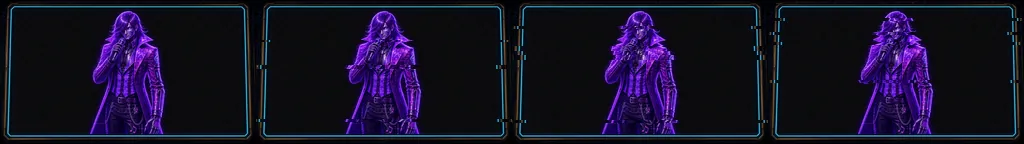
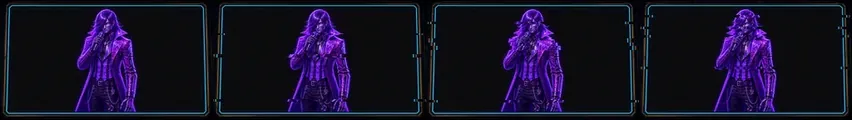
Dôme Fréquence : fiches des deux figurants (10 PNJ qui parlent), écrans de scène recalés à 2,4 m

diff --git a/docs/villes/steel/quartiers/dome_frequence/DOME_FREQUENCE.md b/docs/villes/steel/quartiers/dome_frequence/DOME_FREQUENCE.md
@@ -105,6 +105,12 @@ Clé de sprite `gen_df_<id>`. Aucun d'eux n'est Vibes ni Tron, aucun ne cite d'i
 8. **Le Gardien des balcons** (`gen_df_gardien`, 1,60 m, âgé). Ancien ouvreur de la Rotonde. Près des colonnes (3 ; 19).
    - « Avant, ça s'appelait la Rotonde. On y jouait de l'orgue. L'orgue est toujours sous la scène, personne n'a pensé à l'enlever. »
    - « Le dôme ne laisse pas passer le ciel. Il le montre. Ce n'est pas pareil. »
+9. **Théo, spectateur en costume** (`gen_df_foule_a`, 1,70 m). Costume sombre, cravate violette. C'est un des figurants déjà posés dans les gradins, rang ouest (8 ; 9,6). Il est revenu pour la quatrième fois.
+   - « J'ai pris une place au premier rang. Je regarde quand même l'écran, on voit mieux leurs visages. »
+   - « Tous les soirs, le même concert, à la seconde près. Moi, c'est ça qui me rassure. »
+10. **Maëlle, spectatrice en robe violette** (`gen_df_foule_b`, 1,66 m). Robe longue de soirée, sac argenté. C'est une autre figurante des gradins, un rang plus bas (10 ; 12). Elle vient pour être vue.
+   - « Ma robe est assortie à l'écran de Tron. Si la caméra de la salle passe par ici, je serai prête. »
+   - « On dit qu'ils ne viennent jamais en vrai. Moi, je garde mon billet au cas où. »
 
 ## Concepts
 Dans `concepts/` : deux **maquettes générées**, références d'ambiance, **pas des captures du jeu**.

diff --git a/docs/villes/steel/quartiers/dome_frequence/ASSETS.md b/docs/villes/steel/quartiers/dome_frequence/ASSETS.md
@@ -74,3 +74,7 @@ Planches horizontales, images de gauche à droite, lues en boucle (`frames`, `fr
 ## Sprites v1 (29/10/2026)
 
 Les 50 entrées du manifest passent en v1. Les enseignes animées pèsent environ 152 Ko en version ordinateur et 69 Ko en version mobile. Les écrans de scène et de façade réutilisent les références de Vibes et de Tron, et aucun visage n'y apparaît hormis le leur. Les lumières de la herse, la lueur de la verrière et les vumètres sont dessinés par le code, ou ajoutés en PIL sur une base éteinte. Aucun faisceau n'est peint dans les images. Planche d'aperçu : /workspace/nml-shots/dome_frequence_sprites.png.
+
+## Écrans de scène recalés (29/10/2026)
+
+Les deux écrans de scène étaient un peu trop hauts (144 px, soit 2,88 m à 50 px par mètre). Ils passent à 213 x 120 px par image, soit 2,4 m, en 16:9. Les versions mobiles passent de 128 x 72 à 106 x 60. L'ancre reste au pied, au centre du bas de l'image. Le nombre d'images et les fps ne changent pas, donc l'horloge partagée du groupe ecrans_scene reste la même.
